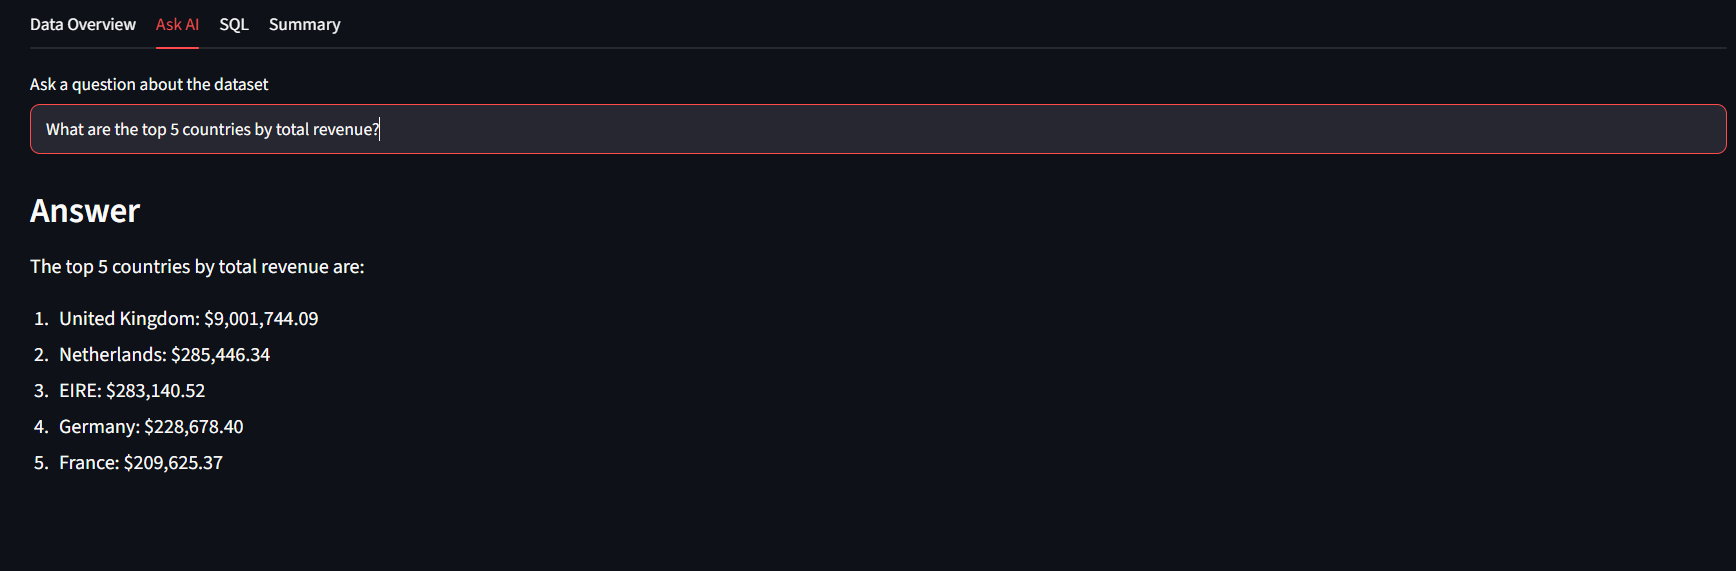
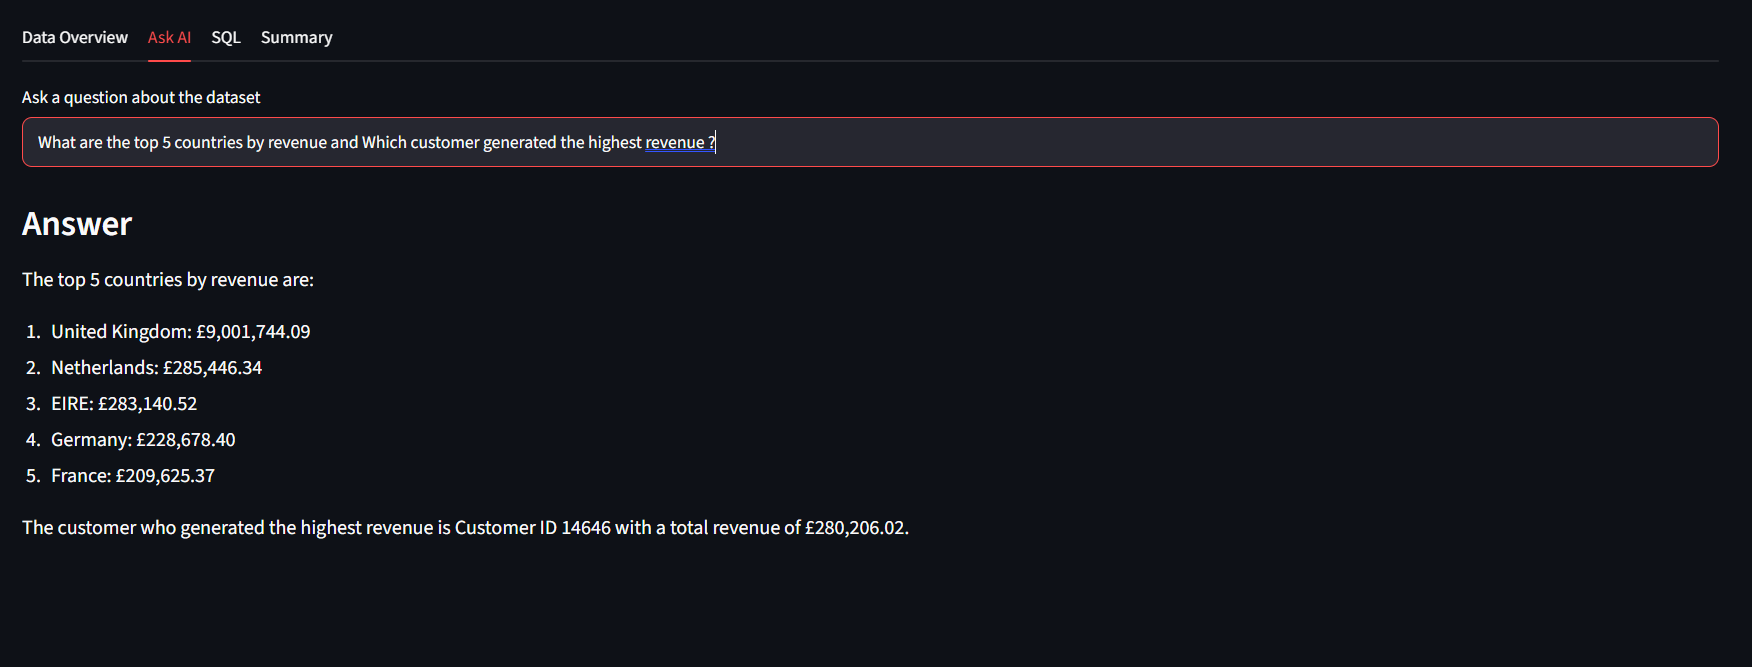
Update requirements and add live demo link

diff --git a/README.md b/README.md
@@ -1,4 +1,5 @@
 # "AI Data Analyst Project"
+Live Demo: https://ai-data-analyst-orkj9domqvnpygezp4psry.streamlit.app/
 
 A simple AI-powered data analysis project built with Python, Streamlit, Pandas, LangChain, Groq and DuckDB.
 
@@ -129,7 +130,7 @@ For the retail dataset, the application generated KPIs such as:
 The actual KPI values are calculated using Pandas, not generated by the LLM.
 
 
-![Dashboard](screenshot/dashboard.png)
+![Dashboard](screenshot/kpi_overview.png)
 
 # Ask AI
 
@@ -156,18 +157,20 @@ DuckDB is used to run SQL directly on the Pandas DataFrame.
 The registered table name is: data
 
 Example query:
-
+```text
 SELECT Country, SUM(Revenue) AS total_revenue
 FROM data
 GROUP BY Country
 ORDER BY total_revenue DESC
 LIMIT 5;
+```
 
 ![SQL Analysis](screenshot/sql_analysis.png)
 
 # AI Summary
 
 The summary is generated only after KPI values are calculated.
+![Summary](screenshot/summary.png)
 
 The project follows this simple rule:
 
